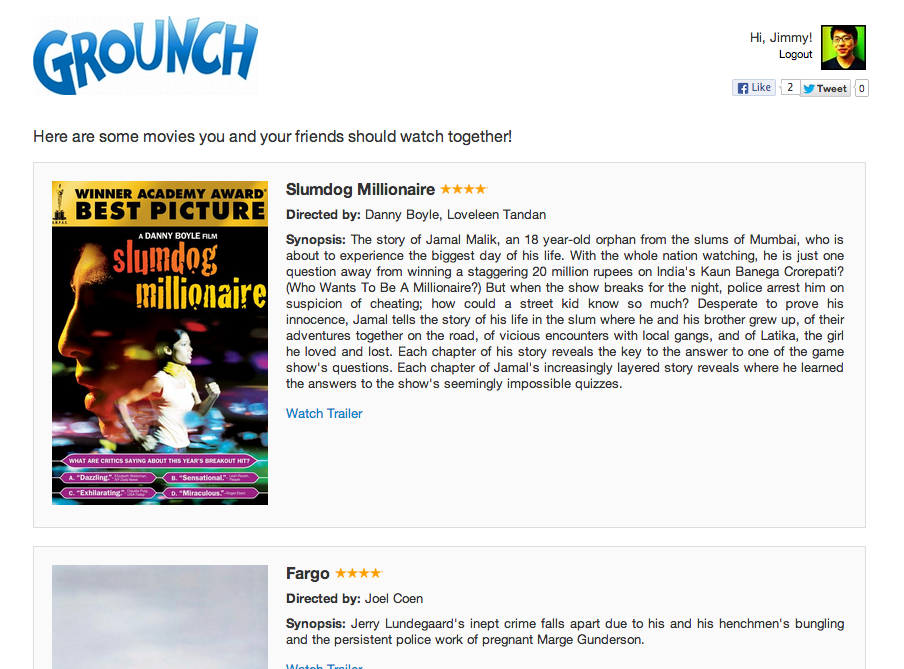
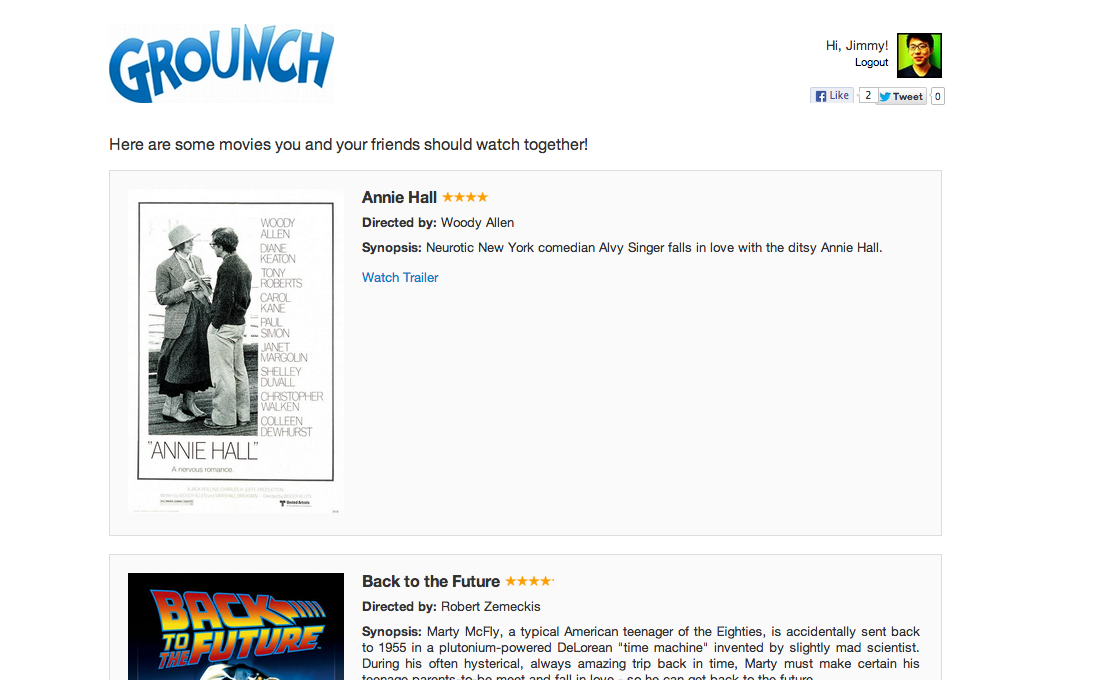
black style

diff --git a/app/assets/stylesheets/home.css.scss b/app/assets/stylesheets/home.css.scss
@@ -2,6 +2,9 @@
 // They will automatically be included in application.css.
 // You can use Sass (SCSS) here: http://sass-lang.com/
 
+$body-background: #161616;
+$link-color: #FFFFFF;
+$light-teal: #85E0FF;
 
 @mixin transition($transition) {
   -webkit-transition: $transition;
@@ -12,38 +15,53 @@
 }
 
 body {
-	background-color: white;
+	background-color: $body-background;
 	// background-image: image-url('tiny_grid.png');
 }
 
+h3 {
+	color: white;
+	font-variant: small-caps;
+}
+ 
 .main-header {
 	padding: 30px 0px;
-	border-bottom: 1px solid #eee;
 }
 
 .menu {
 	margin-bottom: 0px;
-	
-	li {
-		display: inline;
-		margin-right: 70px;
-	}
-
-	.logo {
-		margin-right: 100px;
-	}
+	font-size: 20px;
 }
 
+.right-menu {
+	border-bottom: 1px solid #eee;
+	padding: 0 0 5px 0;
+	box-sizing: border-box;
+
+	li {
+		display: inline;
+		margin-left: 70px;
+	}
+
+	li:first-child {
+		margin-left: 0px;
+	};
+}
+	
 a, a:visited {
-	color: #aaaaaa;
+	color: $link-color;
+	font-variant: small-caps;
 	text-decoration: none;
-	font-size: 18px;
 	@include transition(all 0.2s linear);
 
 	&:hover {
-		color: #4DBBB9;
+		color: $light-teal;
 		@include transition(all 0.7s ease);
 	};
+}
+
+.right {
+	float: right;
 }
 
 .work-items {
@@ -52,22 +70,25 @@ a, a:visited {
 
 .work-item {
 	float: left;
-	margin: 0px 20px 35px 0;
-	width: 95%;
-	border: 5px solid black;
+	margin: 0px 0px 35px 0;
+	width: 100%;
+	border: 3px solid #E6E6E6;
 	height: 250px;
 	position: relative;
 	overflow: hidden;
+	box-sizing: border-box;
 }
 
 .work-img {
 	position: absolute;
 	top: 0px;
 	left: 0px;
+	opacity: 0.8;
 	@include transition(top 0.5s linear);
 
 	&:hover {
 		top: -360px;
+		opacity: 1;
 		@include transition(top 1.2s ease-in);
 	};
 }
